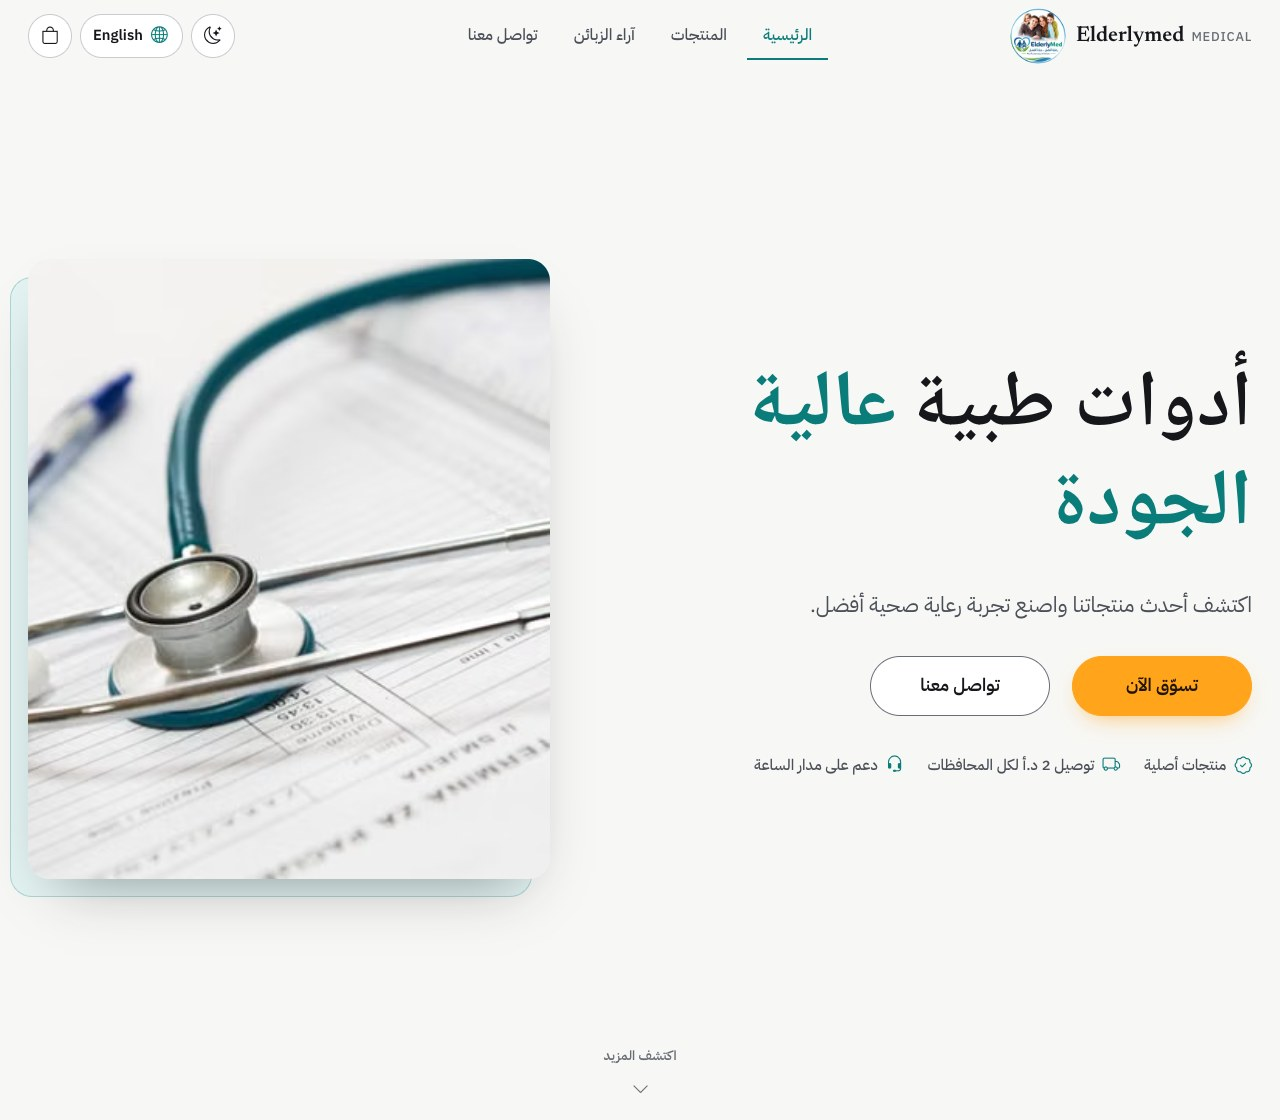
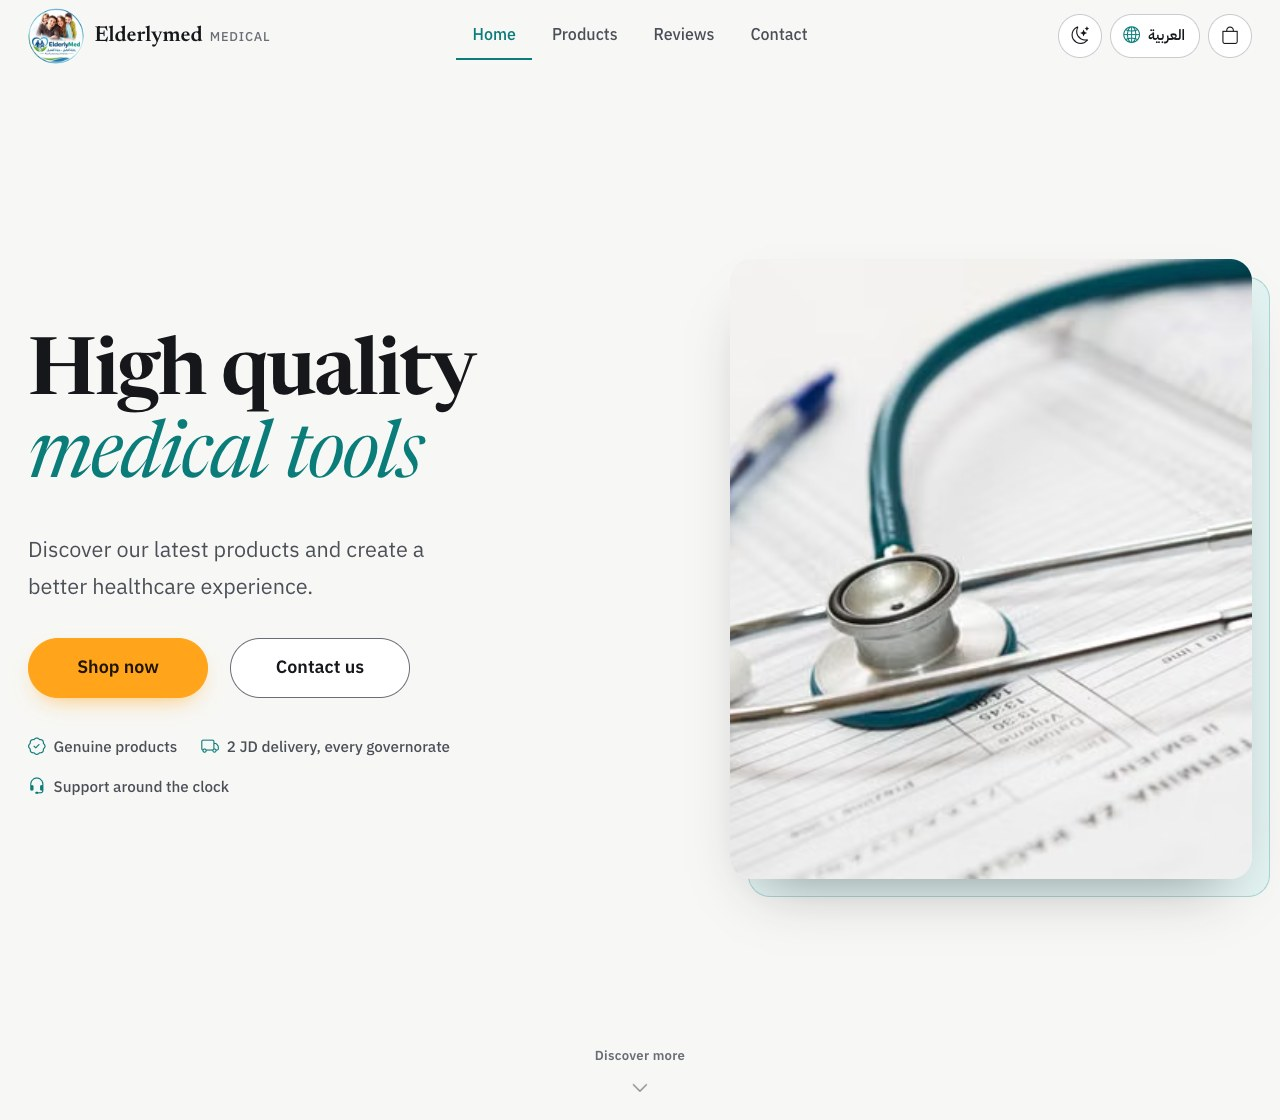
Show English Elderlymed preview and update project domains

diff --git a/index.html b/index.html
@@ -360,7 +360,7 @@
               <p class="rev-desc">Built with friends for our freelance IT company, offering AI model development and data science services, UI/UX design, website development and mobile development.</p>
               <p class="rev-tags"><span class="tech-tag">HTML5</span><span class="tech-tag">CSS3</span><span class="tech-tag">JavaScript</span></p>
               <div class="rev-links">
-                <a href="https://alshaksherahmad857-commits.github.io/rafaq-tec/" target="_blank" rel="noopener">Visit Website</a>
+                <a href="https://www.rafaqtech.com/" target="_blank" rel="noopener">Visit Website</a>
                 <a href="https://github.com/alshaksherahmad857-commits/rafaq-tec" target="_blank" rel="noopener">GitHub</a>
               </div>
             </div>
@@ -379,7 +379,7 @@
               <p class="rev-desc">An e-commerce website for medical products in Jordan, with Arabic and English storefronts, product browsing, a shopping cart and checkout.</p>
               <p class="rev-tags"><span class="tech-tag">JavaScript</span><span class="tech-tag">Tailwind CSS</span><span class="tech-tag">Laravel</span><span class="tech-tag">PHP</span></p>
               <div class="rev-links">
-                <a href="https://elderlymedjo.com/" target="_blank" rel="noopener">Visit Website</a>
+                <a href="https://www.elderlymedjo.com/?lang=en" target="_blank" rel="noopener">Visit Website</a>
                 <a href="https://github.com/Mohamad149/Elderlymed-Medical" target="_blank" rel="noopener">GitHub</a>
               </div>
             </div>
